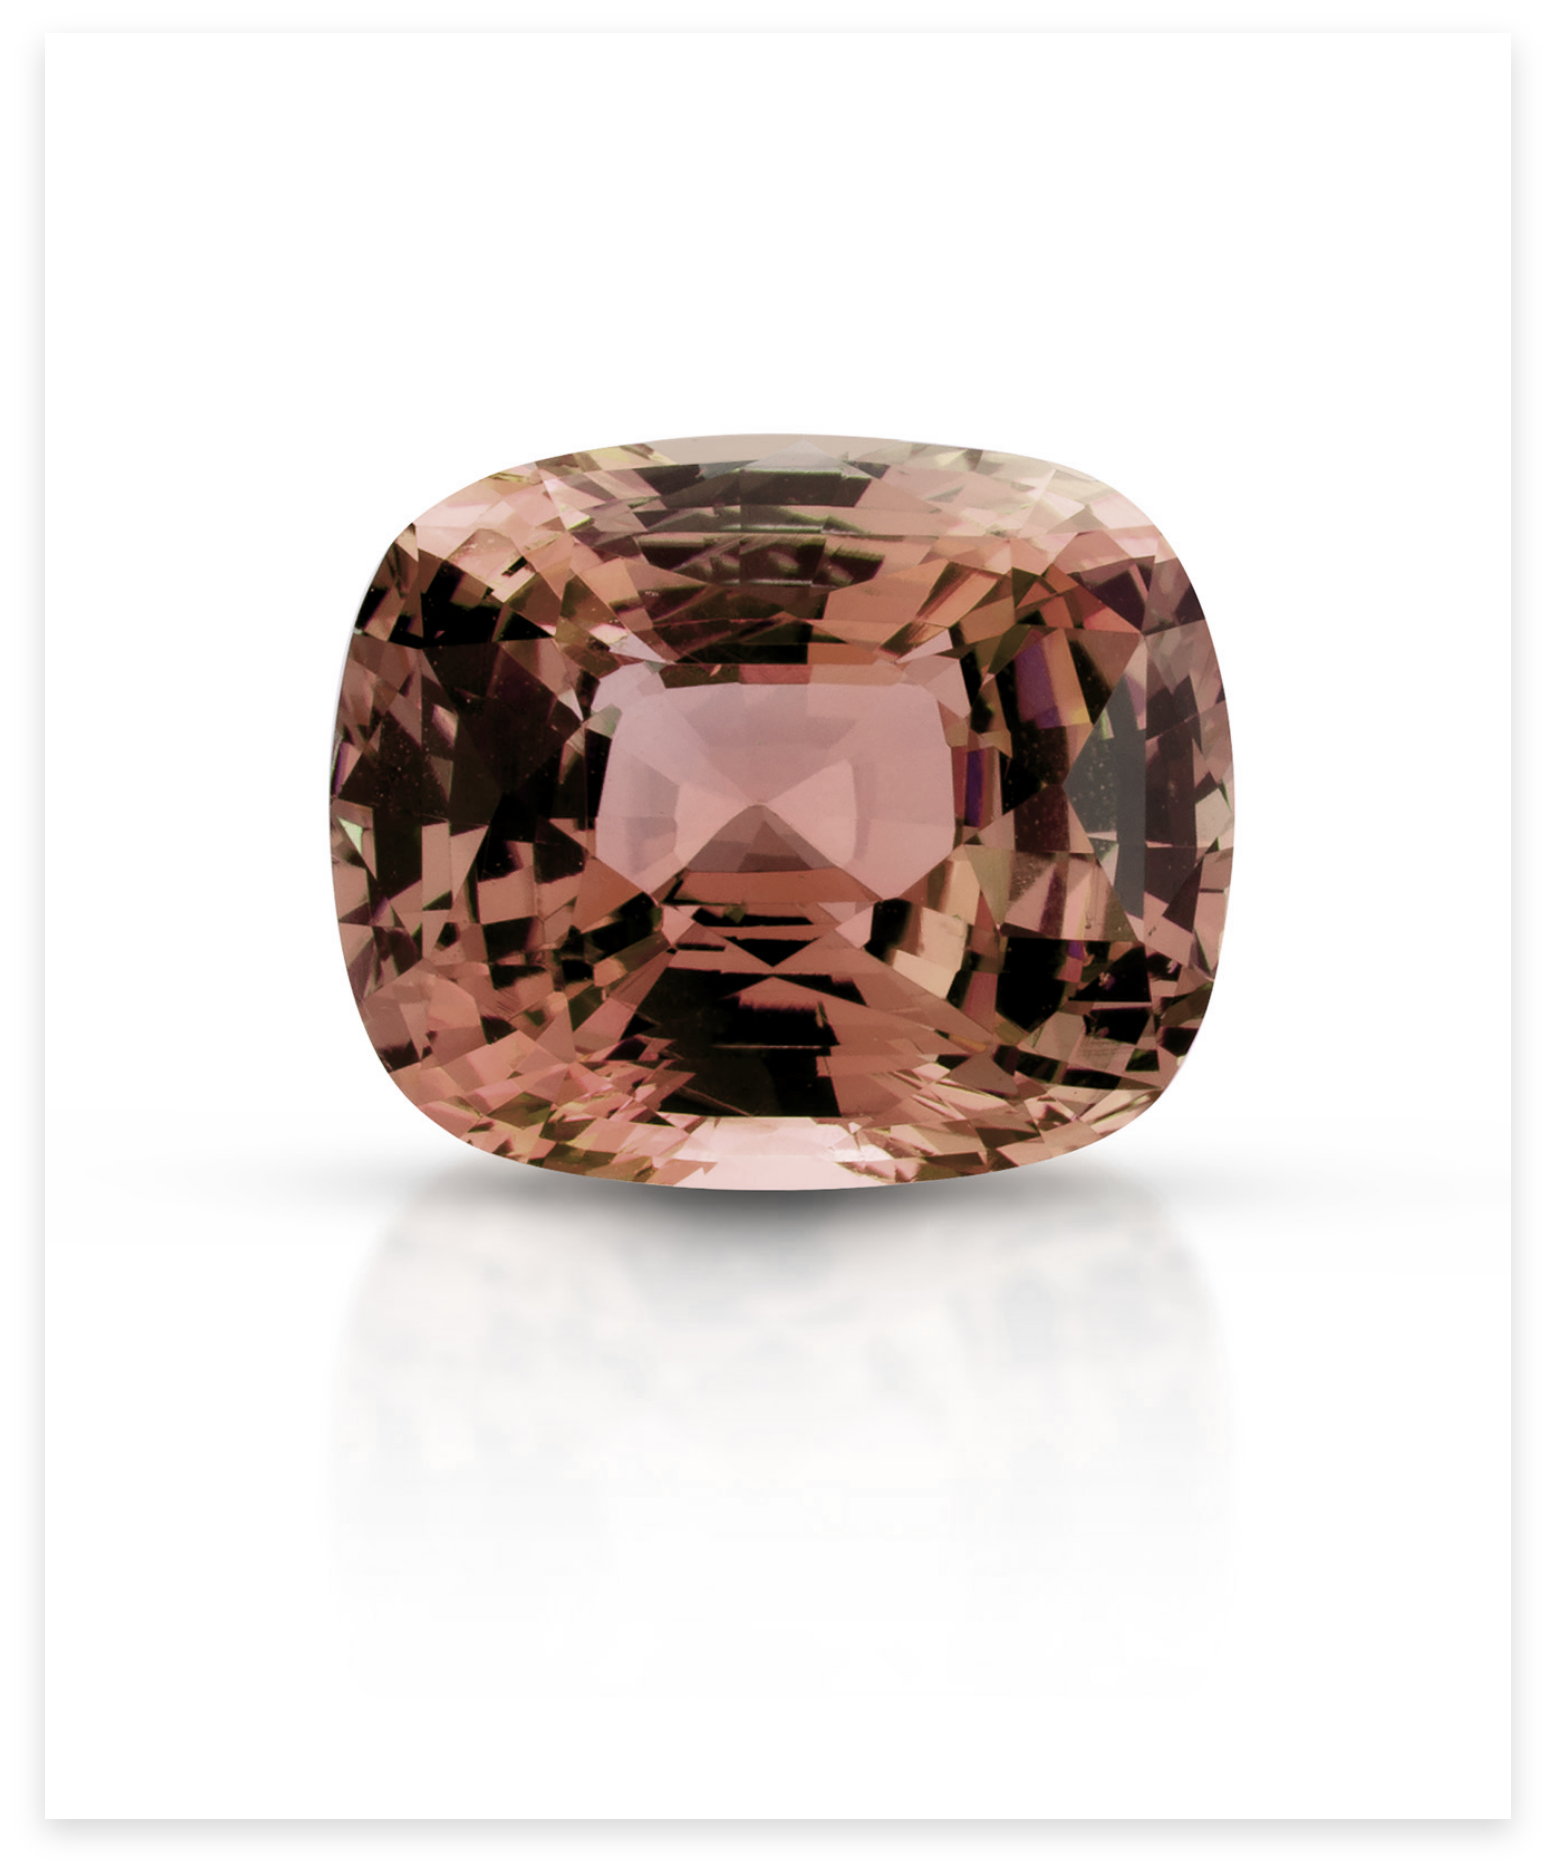
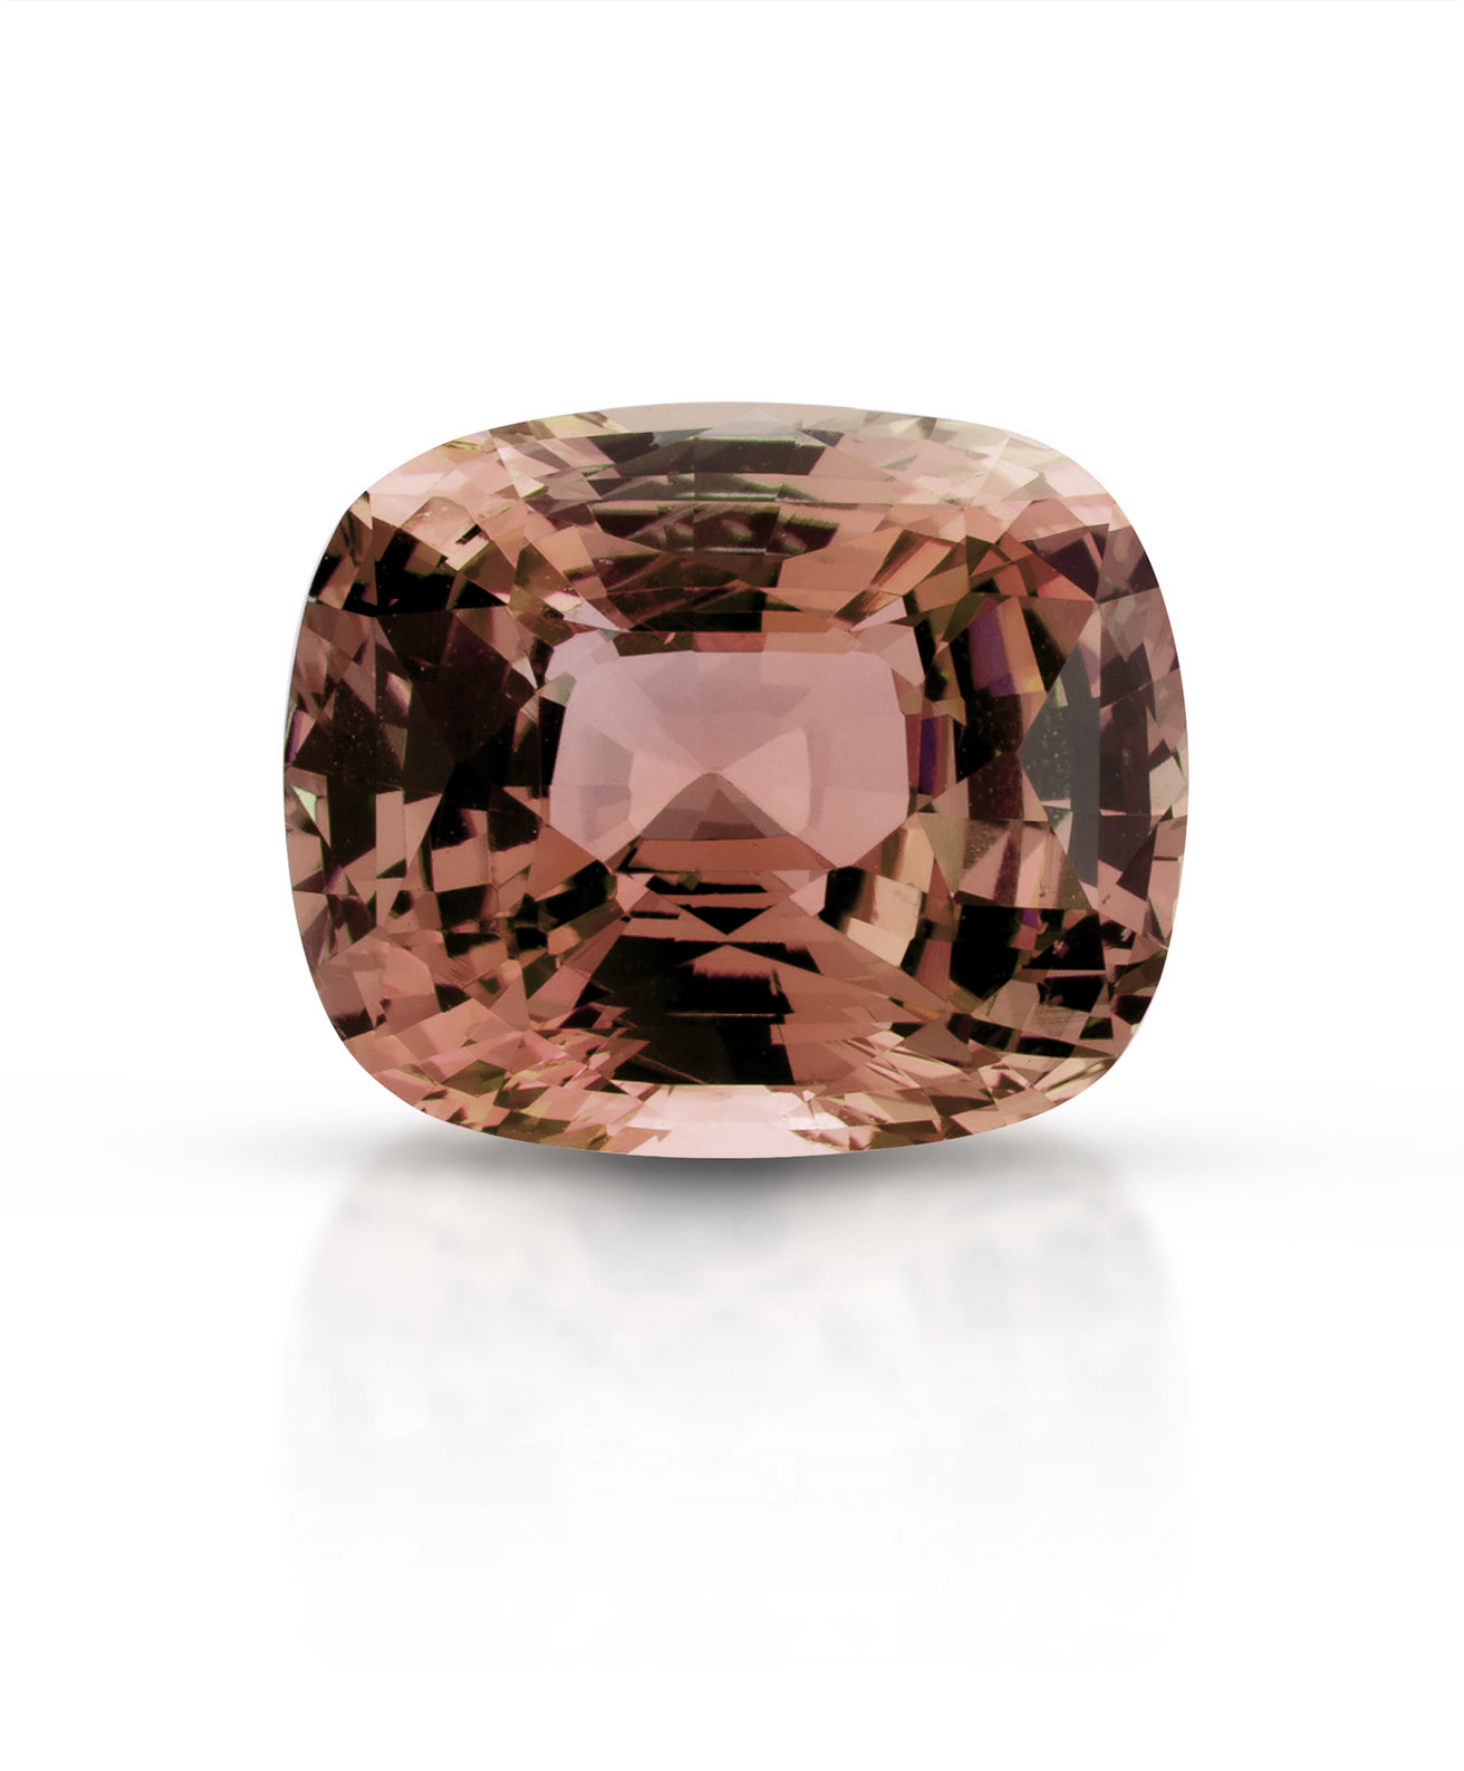
removed box shadow from images

Changed region(s): [[0.1844, 0.2174, 0.8299, 0.7143], [0.0615, 0.9627, 0.9529, 0.9938]]

diff --git a/src/pages/GemsPages/SapphireViewDetails/GemDetails.css b/src/pages/GemsPages/SapphireViewDetails/GemDetails.css
@@ -42,7 +42,9 @@
 	color: rgb(255, 177, 109) !important;
 }
 .gemDetails__sectionCartMainImage > img {
-	height: 500px;
+	height: 450px;
+	object-fit: contain;
+	width: 450px;
 }
 .gemDetails__sectionCartMainImage {
 	margin: 0 80px;
